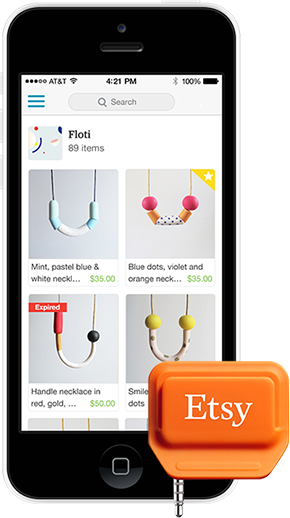
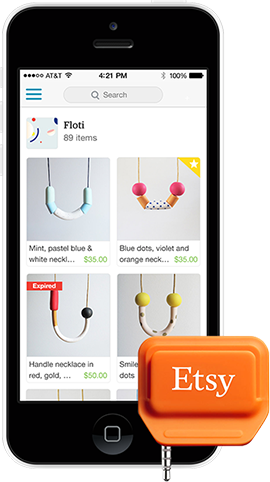
Correcting the size of the iPhone image.

diff --git a/app/assets/stylesheets/mimic.css.scss b/app/assets/stylesheets/mimic.css.scss
@@ -161,7 +161,7 @@ header .header_image_container {
 }
 
 #single_image_for_phones {
-  width: 290px;
+  width: 270px;
   margin: 50px auto 38px auto;
 }
 
@@ -170,7 +170,7 @@ header .header_image_container {
 }
 
 #single_image_for_phones p {
-  margin: 24px 16px 0 16px;
+  margin: 24px 0 0 0;
   font-size: 14px;
   text-align: center;
 }
